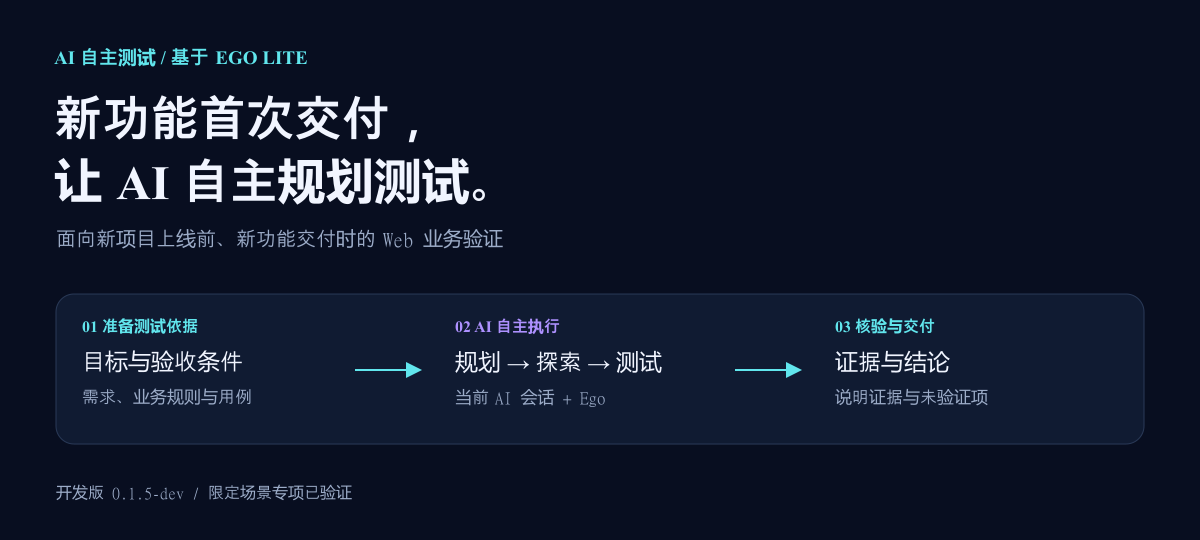
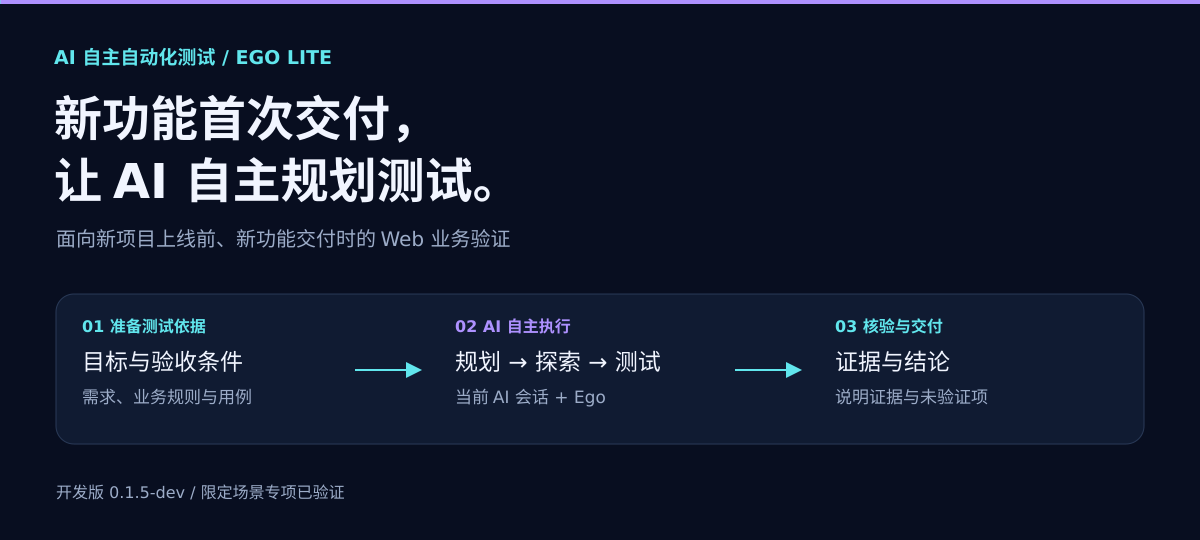
chore(v0.1.5): rename project and Skill to ai-autonomous-testing-ego-lite

diff --git a/README.en.md b/README.en.md
@@ -1,4 +1,4 @@
-<p align="center"><img src="docs/images/hero.png" alt="Ego Lite Test Skill for new web projects and first feature deliveries. AI plans tests against business rules." width="100%"></p>
+<p align="center"><img src="docs/images/hero.png" alt="AI Autonomous Testing with Ego Lite for new web projects and first feature deliveries. AI plans tests against business rules." width="100%"></p>
 
 <h1 align="center">AI-led Testing Skill Built on Ego Lite</h1>
 
@@ -10,9 +10,13 @@ An existing automated test suite is not required. Supply prepared cases, or prov
 
 First launch is a target use case, not a promise to infer missing rules or guarantee release readiness. Missing requirements need clarification, and insufficient evidence must remain uncertain. Existing-feature regression is also supported.
 
+## Name and invocation (0.1.5)
+
+The repository/package/Skill identifier is **ai-autonomous-testing-ego-lite**. Codex displays **AI 自主自动化测试 · Ego Lite**; invoke `$ai-autonomous-testing-ego-lite`. The Chinese README heading is unchanged. See the [rename and upgrade guide](docs/rename-upgrade.md) before updating the remote or migrating an existing installation; do not leave duplicate old/new discoverable Skills.
+
 ## Project status
 
-This Skill is under active development. Current source is **v0.1.5-dev, with scoped behavioral acceptance completed and no formal release yet**; the latest formal release is [v0.1.4](https://github.com/99Like-wjj/ego-lite-test-skill/releases/tag/v0.1.4). Feedback is welcome. Review AI conclusions against business rules and evidence, and do not use them as the sole basis for launch decisions. See [version history](docs/version-history.en.md), the [validation record](docs/testing.en.md) and [changelog](CHANGELOG.md).
+This Skill is under active development. Current source is **v0.1.5-dev, with scoped behavioral acceptance completed and no formal release yet**; the latest formal release is [v0.1.4](https://github.com/99Like-wjj/ai-autonomous-testing-ego-lite/releases/tag/v0.1.4). Feedback is welcome. Review AI conclusions against business rules and evidence, and do not use them as the sole basis for launch decisions. See [version history](docs/version-history.en.md), the [validation record](docs/testing.en.md) and [changelog](CHANGELOG.md).
 
 Maintained source uses strict TypeScript; installation packages contain compiled JavaScript and require no TypeScript compiler or development dependencies. Case concurrency is configurable and defaults to serial execution. The AI decides which cases are independent and uses native host subagents. Space association and deviation records are not a hard permission sandbox or a guarantee of account or backend-data isolation.
 
@@ -21,7 +25,7 @@ Maintained source uses strict TypeScript; installation packages contain compiled
 
 The AI infers prerequisites from each goal, checks existing material and safely available facts within authorization, and asks about material gaps. It explains affected goals and how to supply what is missing, pauses dependent actions, and may continue independent authorized work. Supplied resources require verification before resuming, including new dependencies discovered during execution.
 
-Acceptance ambiguity, resource availability and permission to act stay separate. Existing tools retain observations, questions and history; no fixed resource checklist or business workflow is added. See the [resource guide (Chinese)](skills/ego-lite-test/references/resource-readiness.md) and [local acceptance steps (Chinese)](docs/v0.1.5-local-acceptance.md). Guidance and engineering checks do not replace behavioral acceptance.
+Acceptance ambiguity, resource availability and permission to act stay separate. Existing tools retain observations, questions and history; no fixed resource checklist or business workflow is added. See the [resource guide (Chinese)](skills/ai-autonomous-testing-ego-lite/references/resource-readiness.md) and [local acceptance steps (Chinese)](docs/v0.1.5-local-acceptance.md). Guidance and engineering checks do not replace behavioral acceptance.
 
 ![Version history separates released capabilities from v0.1.5 development; illustration only.](docs/images/version-history.png)
 
@@ -33,13 +37,13 @@ Unless the user explicitly requests another format, completed test execution del
 
 Build a complete standalone directory from the source repository with `npm run build:skill -- --output-dir ABS_NEW_EXTERNAL_SKILL_DIR`. The package contains the Skill, guides, scripts, schemas, synthetic examples and `runtime-manifest.json`. Copying only the source Skill instructions is incomplete. Before updating an existing installation, compare known source files and report unknown edits instead of overwriting them, creating duplicate installations or adding old-version backups.
 
-Use the absolute root of the actually loaded SKILL.md, then run `node ABS_TOOL_ROOT/scripts/ego.mjs tool-info --expect-version 0.1.5-dev --expect-revision resource-clarification-3`. Check paths, formatVersions and installationIntegrity. Every CLI command verifies installed files. Source development runs npm ci and npm run build from the confirmed repository, then uses its explicit .build/runtime tool root. Fingerprints check consistency, not publisher identity. Validate this development package separately before deciding whether to replace an existing installation; no new resource JSON format is introduced.
+Use the absolute root of the actually loaded SKILL.md, then run `node ABS_TOOL_ROOT/scripts/ego.mjs tool-info --expect-version 0.1.5-dev --expect-revision branding-rename-1`. Check paths, formatVersions and installationIntegrity. Every CLI command verifies installed files. Source development runs npm ci and npm run build from the confirmed repository, then uses its explicit .build/runtime tool root. Fingerprints check consistency, not publisher identity. Validate this development package separately before deciding whether to replace an existing installation; no new resource JSON format is introduced.
 
 `report` reads back all three outputs. `verify-report --run-dir ABS_RUN --report-dir ABS_REPORT_DIR` compares the files with current records, retained evidence and context sources. Receipts include paths, sizes, hashes and `browserOpen: not_checked`; actual browser opening is separate. Report access restrictions honestly without routing around them.
 
 To retain an existing report, prepare a new external directory and pass `report --output-dir ABS_EXISTING_NEW_DIR`. Post-execution assembly also passes `--context ABS_CONTEXT_JSON`, defined by [the context schema](schemas/report-context.schema.json). It records limitations, existing source files and hashes, supplemental case IDs and AI-supplied reviews for every goal. Original claims remain separate; no pre-execution freeze, screenshot, timestamp or execution step is invented. No business actions run to fill a report.
 
-This development version uses tool revision `resource-clarification-3`. Cases/results/evidence remain v3; new manifests/reports are v4, execution/configuration/worker packets v1. Existing v3 runs remain usable without in-place migration; v2 remains unsupported. The installation requires Node.js >=22, not a TS compiler.
+This development version uses tool revision `branding-rename-1`. Cases/results/evidence remain v3; new manifests/reports are v4, execution/configuration/worker packets v1. Existing v3 runs remain usable without in-place migration; v2 remains unsupported. The installation requires Node.js >=22, not a TS compiler.
 
 ## Cases and judgments
 
@@ -80,7 +84,7 @@ node .\.build\runtime\scripts\ego.mjs validate-cases --cases $Cases
 node .\.build\runtime\scripts\ego.mjs start --project-dir $Project --cases $Cases --output-dir $Run
 ```
 
-`start` creates local files only; it does not run a browser or business action. See the [Skill workflow](skills/ego-lite-test/SKILL.md) and its [local toolbox guide](skills/ego-lite-test/references/local-toolbox.en.md).
+`start` creates local files only; it does not run a browser or business action. See the [Skill workflow](skills/ai-autonomous-testing-ego-lite/SKILL.md) and its [local toolbox guide](skills/ai-autonomous-testing-ego-lite/references/local-toolbox.en.md).
 
 ### Register evidence and record outcomes
 
@@ -154,7 +158,7 @@ Evidence registration does not redact data. Screenshots, logs, URLs, and descrip
 
 ## Further reading
 
-- [Skill workflow](skills/ego-lite-test/SKILL.md) and [local toolbox calling guide](skills/ego-lite-test/references/local-toolbox.en.md)
+- [Skill workflow](skills/ai-autonomous-testing-ego-lite/SKILL.md) and [local toolbox calling guide](skills/ai-autonomous-testing-ego-lite/references/local-toolbox.en.md)
 - [Architecture](docs/architecture.en.md), [Asset formats and commands](docs/asset-formats.en.md)
 - [v0.1.4 requirements and decision history (Chinese)](docs/requirements.md): configurable concurrency and Space associations
 - [Synthetic cases](examples/cases.example.json), [evidence request](examples/evidence-request.example.json), [result request](examples/record-request.example.json)
@@ -162,7 +166,7 @@ Evidence registration does not redact data. Screenshots, logs, URLs, and descrip
 
 ## Feedback and contact
 
-Report bugs or suggest improvements through [GitHub Issues](https://github.com/99Like-wjj/ego-lite-test-skill/issues) or the contacts below. Include the version, reproduction steps, and redacted errors or screenshots. Do not submit passwords, tokens, keys, or confidential company information.
+Report bugs or suggest improvements through [GitHub Issues](https://github.com/99Like-wjj/ai-autonomous-testing-ego-lite/issues) or the contacts below. Include the version, reproduction steps, and redacted errors or screenshots. Do not submit passwords, tokens, keys, or confidential company information.
 
 - Author: [99Like-wjj](https://github.com/99Like-wjj)
 - Email: [wjj990517@gmail.com](mailto:wjj990517@gmail.com)
@@ -178,4 +182,4 @@ Original code and documentation in this repository are licensed under the [MIT L
 
 ## Configurable concurrency
 
-The default is **1 (serial)**. Without a user request for concurrency or an explicit setting, execute cases one at a time. Set `start --max-parallel-cases N` or project execution-config.json to opt in; N is a positive safe integer with no fixed 2/4/8 product ceiling. The AI chooses tool calls, batches and worker use within that limit; it need not fill all slots. Host limits are recorded only when explicitly available, otherwise unknown. No automatic host probing or global configuration changes occur. Workers seal local packets; the coordinator reviews and imports them. See the [parallel guide](skills/ego-lite-test/references/parallel-testing.md). npm test builds and tests emitted JS; npm run check:public checks publishable source assets.
+The default is **1 (serial)**. Without a user request for concurrency or an explicit setting, execute cases one at a time. Set `start --max-parallel-cases N` or project execution-config.json to opt in; N is a positive safe integer with no fixed 2/4/8 product ceiling. The AI chooses tool calls, batches and worker use within that limit; it need not fill all slots. Host limits are recorded only when explicitly available, otherwise unknown. No automatic host probing or global configuration changes occur. Workers seal local packets; the coordinator reviews and imports them. See the [parallel guide](skills/ai-autonomous-testing-ego-lite/references/parallel-testing.md). npm test builds and tests emitted JS; npm run check:public checks publishable source assets.

diff --git a/docs/rename-upgrade.md b/docs/rename-upgrade.md
@@ -1,0 +1,41 @@
+# v0.1.5 名称变更与升级 / Naming and upgrade
+
+此变更属于 **0.1.5-dev / branding-rename-1**，不代表正式发布或新增业务验收。资源澄清能力沿用 resource-clarification-3；数据格式、Ego 命令/API 与官方 ego-browser Skill 不变。
+
+## 名称对应
+
+| 位置 | 新值 |
+| --- | --- |
+| GitHub 仓库、package name | ai-autonomous-testing-ego-lite |
+| Skill frontmatter name、源码目录、安装目录 | ai-autonomous-testing-ego-lite |
+| 显式调用 | `$ai-autonomous-testing-ego-lite` |
+| Codex 展示名 | AI 自主自动化测试 · Ego Lite |
+| README 中文标题 | 基于 Ego Lite 的 AI 自主测试 Skill（保持不变） |
+
+旧仓库名为 ego-lite-test-skill，旧 Skill 名为 ego-lite-test。新仓库为 [ai-autonomous-testing-ego-lite](https://github.com/99Like-wjj/ai-autonomous-testing-ego-lite)。原仓库更名，不另建项目；不要重新占用旧仓库名，以免影响旧链接重定向。历史 Tag、Release、已发布安装包和已生成报告不改写。
+
+## 现有源码目录
+
+保留现有本地源码目录及工作分支，无需重新 clone 或重命名本地文件夹。在确认的原仓库中更新 remote，然后 fetch 并检查差异；有未提交或未推送工作时先协调，不 reset、强推、覆盖或自动 stash。
+
+```sh
+git remote set-url origin https://github.com/99Like-wjj/ai-autonomous-testing-ego-lite.git
+git fetch origin
+git status --short --branch
+```
+
+只在工作区安全且核对当前分支后快进到对应远端分支；不要把这一步当作合并 main 或发布授权。
+
+## 安装与发现
+
+1. 从当前源码构建完整的仓库外目录包，目录名使用 ai-autonomous-testing-ego-lite。不能只复制源码 Skill 说明子目录。包必须包含 agents/openai.yaml、references、scripts、schemas、运行依赖资源与 runtime-manifest.json。
+2. 在独立包运行 `node ABS_PACKAGE/scripts/ego.mjs tool-info --expect-version 0.1.5-dev --expect-revision branding-rename-1`，确认 name 为 ai-autonomous-testing-ego-lite、installationIntegrity 为 verified，并检查实际路径。
+3. 更新用户安装须单独获得授权。先检查实际使用的 Skill 搜索路径（包括项目级和用户级）以及旧 ego-lite-test 与新目录是否存在，比较已知文件哈希，保护不明修改、报告和证据。新目录已存在时先比对，不直接覆盖。
+4. 迁移已确认的旧安装到同一 Skill 根下的新目录，并更新为完整新包；校验新入口后再完成旧入口退役。不要长期留下两个可被发现的同功能入口，不自动创建旧版备份或删除不明内容。无法安全完成时保留现状并报告，不静默加载旧版。
+5. 在新的 Codex 会话检查展示名及 `$ai-autonomous-testing-ego-lite`，再从实际加载的 SKILL.md 目录运行 tool-info。旧调用名不作为兼容别名保留；官方 `$ego-browser` 仍按既有方式使用。
+
+旧运行及报告仍保留原数据格式和历史 tool identity，不全局替换其中的名字、路径、hash 或 revision。package 中 egoLiteTest 元数据键以及内部 CLI 文件名 scripts/ego.mjs 保留，避免把品牌更名扩大为无关格式迁移。
+
+## English summary
+
+The repository, package and Skill identifier are now **ai-autonomous-testing-ego-lite**. Invoke `$ai-autonomous-testing-ego-lite`; Codex displays **AI 自主自动化测试 · Ego Lite**. The Chinese README heading stays unchanged. Update the remote in the existing checkout; do not clone a second local version or reset local work. Build and verify the full standalone package, including agents/openai.yaml. User-level installation migration requires separate authorization and checks for unknown changes and duplicate discoverable entries. Historical releases, reports, hashes, JSON formats and the official Ego API/Skill remain unchanged. This development rename is not a release or a new live-business acceptance result.

diff --git a/docs/architecture.en.md b/docs/architecture.en.md
@@ -2,7 +2,7 @@
 
 ## Current v0.1.5-dev architecture
 
-The AI infers resource needs from goals and facts, using guidance loaded from the entrypoint and existing evidence/result/packet/report tools. Acceptance ambiguity, resource availability and authorization stay separate. No new resource state machine, scheduler or fixed business route is added; supplied resources require verification and auxiliary notes are not automatically report-verified. See the [resource guide (Chinese)](../skills/ego-lite-test/references/resource-readiness.md).
+The AI infers resource needs from goals and facts, using guidance loaded from the entrypoint and existing evidence/result/packet/report tools. Acceptance ambiguity, resource availability and authorization stay separate. No new resource state machine, scheduler or fixed business route is added; supplied resources require verification and auxiliary notes are not automatically report-verified. See the [resource guide (Chinese)](../skills/ai-autonomous-testing-ego-lite/references/resource-readiness.md).
 
 ![Configurable concurrency, independent assignments and reviewed aggregation.](images/parallel.svg)
 
@@ -12,7 +12,7 @@ All maintained programs use strict TypeScript. Node `.mts` compiles to ESM `.mjs
 
 The AI chooses tool calls, batches and whether to execute directly or use native host workers. Default concurrency is 1 (serial) without a user concurrency request or explicit configuration; a separate worker per case is optional. `src/execution/` handles configuration, declared resource reservations, ownership receipts, immutable worker packets and explicitly reviewed imports. It does not schedule business actions, run model services or retry browser writes. Configured concurrency (no fixed product cap or requirement to fill all slots) and known host capacity are distinct; unknown host limits remain unknown. Space deviations and authorized recovery are recorded, without claiming a sandbox or account isolation.
 
-Workers write only their assignment directory. The coordinator reviews original goals and evidence before importing into shared records. Persisted requests/checkpoints support identical data-operation replay; a confirmed unapplied conflict requires an explicit new transaction. Unknown/in-flight workers keep their slot. New manifests/reports use v4; execution/configuration/packets use v1 and business cases/results/evidence remain v3. Existing v3 runs retain their format. Reports show per-goal assessments separately from execution state and distinguish reservation peaks from sourced execution intervals. See the [parallel protocol](../skills/ego-lite-test/references/parallel-testing.md).
+Workers write only their assignment directory. The coordinator reviews original goals and evidence before importing into shared records. Persisted requests/checkpoints support identical data-operation replay; a confirmed unapplied conflict requires an explicit new transaction. Unknown/in-flight workers keep their slot. New manifests/reports use v4; execution/configuration/packets use v1 and business cases/results/evidence remain v3. Existing v3 runs retain their format. Reports show per-goal assessments separately from execution state and distinguish reservation peaks from sourced execution intervals. See the [parallel protocol](../skills/ai-autonomous-testing-ego-lite/references/parallel-testing.md).
 
 ## Historical v0.1.3 architecture
 

diff --git a/skills/ai-autonomous-testing-ego-lite/SKILL.md b/skills/ai-autonomous-testing-ego-lite/SKILL.md
@@ -1,12 +1,12 @@
 ---
-name: ego-lite-test
-description: 使用已安装的 Ego Browser 与当前 AI 会话，接收外部用例或按需求生成带业务步骤的标准用例，执行证据驱动的黑盒 Web 测试，区分产品异常、执行失败和证据不足。适用于新需求/新功能自动化测试、已有用例核验、角色权限与业务流程测试；不是固定流程自动化器或 Agent 能力评测框架。
+name: ai-autonomous-testing-ego-lite
+description: AI 自主 Web 自动化测试：由当前 AI 会话自主分析、规划与验证，通过已安装的 Ego Lite / Ego Browser 执行，接收外部用例或按需求生成带业务步骤的标准用例，执行证据驱动的黑盒 Web 测试，区分产品异常、执行失败和证据不足。适用于新需求/新功能自动化测试、已有用例核验、角色权限与业务流程测试；不是固定流程自动化器或 Agent 能力评测框架。
 metadata:
   version: "0.1.5-dev"
-  tool-revision: "resource-clarification-3"
+  tool-revision: "branding-rename-1"
 ---
 
-# Ego Lite Test
+# AI 自主自动化测试 · Ego Lite
 
 由 AI 理解需求、选择测试、执行观察并审阅证据。Ego 负责浏览器原语；本 Skill 不接管其原生 API，不内置业务代码、固定 DAG、模型 API 服务或能力验收数据集。本地工具只整理记录、校验文件和渲染报告，不代替推理或执行测试。
 
@@ -22,7 +22,7 @@ metadata:
 
 完整安装包包含入口、references、scripts、schemas 和格式指南。**除非用户明确指定其他格式，执行测试后的默认交付必须包含可独立打开的 HTML、结构化 JSON 和 Markdown。** 聊天摘要不能替代文件交付。工具暂不可用时仍可保存事实，但须明确报告交付阻塞，不能静默退回 Markdown 并宣称完成。
 
-开始记录前读 [本地工具箱调用指南](references/local-toolbox.md)：以本次实际加载的安装／构建包 `SKILL.md` 所在绝对目录为工具根，运行 `scripts/ego.mjs tool-info`，核对路径、`0.1.5-dev`、`resource-clarification-3`、`formatVersions` 与安装文件校验结果。源码开发先在明确的唯一仓库构建，使用其 `.build/runtime` 或本次指定的独立编译包；不要将源码 Skill 子目录当作安装根，不向上猜目录、选择旧安装或覆盖用户安装。先确认报告资源可用；这不规定业务执行路线。
+开始记录前读 [本地工具箱调用指南](references/local-toolbox.md)：以本次实际加载的安装／构建包 `SKILL.md` 所在绝对目录为工具根，运行 `scripts/ego.mjs tool-info`，核对路径、`0.1.5-dev`、`branding-rename-1`、`formatVersions` 与安装文件校验结果。源码开发先在明确的唯一仓库构建，使用其 `.build/runtime` 或本次指定的独立编译包；不要将源码 Skill 子目录当作安装根，不向上猜目录、选择旧安装或覆盖用户安装。先确认报告资源可用；这不规定业务执行路线。
 
 ## 两种用例来源
 

diff --git a/CHANGELOG.md b/CHANGELOG.md
@@ -2,13 +2,14 @@
 
 ## 0.1.5-dev — 2026-10-25 · 开发中，限定场景专项验收完成
 
+- 更名修订 branding-rename-1：仓库、package 与 Skill 标识统一为 ai-autonomous-testing-ego-lite，新增随完整包校验的 Codex 展示/调用元数据，更新当前链接与迁移说明。README 中文标题“基于 Ego Lite 的 AI 自主测试 Skill”不变；历史版本、报告与数据格式不动，用户安装不自动修改。
 - 修订 resource-clarification-3：同一资源事实复用可追溯依据，派生摘要回读该来源并区分历史与当前；已提供但未核验不再写成未提供。复用现有证据、结果和报告，不增加资源状态机或业务判断代码。
 - 修订 resource-clarification-2：明确记录缺口不等于实际发问、部分答复只解决所覆盖条件，以及受阻原目标交付前的问答核对。资源指南优先讲行为，字段映射后置；保持 AI 自主判断。
 - 补强资源充分性与主动澄清：从目标推导必要条件，授权内先核验，主动询问实质缺口，只暂停依赖动作，补充后核实再恢复，执行中新依赖同样处理。
 - 分开处理验收歧义、资源可用性和操作授权。clarificationQuestions 既有含义与 pass/fail 限制保留；资源恢复符合原条件时不因此重新冻结，改变冻结语义仍须修订并保留历史。
 - 复用现有结果、证据、worker 包和报告；不新增资源 JSON、固定决策树、自动重试或独立模型服务。新增指南明确加入运行包与安装清单，辅助资源笔记不冒称已被 verify-report 校验。
 - 新增面向使用者的双语版本演变页、总览图、README 入口及本地验收步骤；区分正式/预发布/开发中和实际发布时间，历史开发记录保留。
-- 升级影响：软件 0.1.5-dev，toolRevision 为 resource-clarification-3；cases/results/evidence v3、manifest/report v4、execution/configuration/workerPacket v1、executionRead v2 保持。需完整包以包含新指南；不迁移、删除或覆盖历史。
+- 升级影响：软件 0.1.5-dev，toolRevision 为 branding-rename-1（资源澄清行为沿用 resource-clarification-3）；cases/results/evidence v3、manifest/report v4、execution/configuration/workerPacket v1、executionRead v2 保持。需完整包以包含新指南；不迁移、删除或覆盖历史。
 - 本版工程验证与限制见 [v0.1.5 本地验证记录](docs/v0.1.5-validation.md)。真实对话与业务验收分别记录，不由类型或合成测试代替。旧开发包已按用户授权更新至用户级安装；本次候选安装及逐次验证以回执为准，未合并 main 或发布。
 
 English: Goal-specific resource clarification, dependency-scoped pauses and verified resumption are guided by the AI using existing records and report tools. Added bilingual version history and acceptance instructions. Development build, unchanged JSON contracts; scoped behavioral acceptance is recorded; broader reliability remains unverified.

diff --git a/docs/version-history.md b/docs/version-history.md
@@ -25,7 +25,7 @@
 
 ### v0.1.4 · 可配置并发与协调复核
 
-**正式发布：2026-10-24 19:56。** [Release、安装包与校验值](https://github.com/99Like-wjj/ego-lite-test-skill/releases/tag/v0.1.4)
+**正式发布：2026-10-24 19:56。** [Release、安装包与校验值](https://github.com/99Like-wjj/ai-autonomous-testing-ego-lite/releases/tag/v0.1.4)
 
 - **解决的问题：** 多用例测试需要在用户设置的并发范围内分工，同时保留各用例证据、共享资源限制与复核责任。
 - **主要变化：** 默认串行，用户可配置并发；原生 worker 独立封包，由协调者按原目标复核后导入。增加执行台账、Space 关联/偏差、逐目标四态和轻量查询。维护源码迁为 TypeScript，用户使用编译后的 JavaScript。
@@ -35,7 +35,7 @@
 
 ### v0.1.3 · 图文证据与完整交付
 
-**正式发布：2026-10-23 00:05。** [Release、安装包与校验值](https://github.com/99Like-wjj/ego-lite-test-skill/releases/tag/v0.1.3)
+**正式发布：2026-10-23 00:05。** [Release、安装包与校验值](https://github.com/99Like-wjj/ai-autonomous-testing-ego-lite/releases/tag/v0.1.3)
 
 - **解决的问题：** 聊天摘要和零散文件不便复核，单独复制说明文件也可能漏掉实际工具。
 - **主要变化：** 增加证据登记、revision 化结果、历史尝试、进度及完整性检查。默认交付离线 HTML、JSON、Markdown；关键 UI 结果/缺陷要求真实截图。完整安装包附工具、schema 和文件清单；支持报告读回及明确标识的事后整理。
@@ -45,7 +45,7 @@
 
 ### v0.1.2 · 业务意图步骤与验收澄清
 
-**实验性预发布：2026-10-22 17:11。** [预发布说明、完整工具包与校验值](https://github.com/99Like-wjj/ego-lite-test-skill/releases/tag/v0.1.2)
+**实验性预发布：2026-10-22 17:11。** [预发布说明、完整工具包与校验值](https://github.com/99Like-wjj/ai-autonomous-testing-ego-lite/releases/tag/v0.1.2)
 
 - **解决的问题：** 不完整需求不应被编造成按钮级操作和无依据的逐步预期。
 - **主要变化：** 步骤表达业务意图与必要输入；步骤检查点可选，整体 expected 和 basis 保留。clarificationQuestions 表示验收待澄清，未解决时不判 pass/fail。

diff --git a/docs/version-history.en.md b/docs/version-history.en.md
@@ -20,7 +20,7 @@ Times below are GitHub published_at converted to Asia/Shanghai. Development date
 
 ### v0.1.4 · Configurable concurrency
 
-**Formal release, 2026-10-24 19:56.** [Release, package and checksums](https://github.com/99Like-wjj/ego-lite-test-skill/releases/tag/v0.1.4)
+**Formal release, 2026-10-24 19:56.** [Release, package and checksums](https://github.com/99Like-wjj/ai-autonomous-testing-ego-lite/releases/tag/v0.1.4)
 
 Independent cases may run within explicit user limits; the default is serial. Native workers seal evidence for coordinator review. Execution records track Spaces, deviations, unfinished work and explicit per-goal assessments. Maintained TypeScript is distributed as compiled JavaScript.
 
@@ -28,7 +28,7 @@ New manifests/reports use v4; business records remain v3. Execution/configuratio
 
 ### v0.1.3 · Evidence and complete delivery
 
-**Formal release, 2026-10-23 00:05.** [Release, package and checksums](https://github.com/99Like-wjj/ego-lite-test-skill/releases/tag/v0.1.3)
+**Formal release, 2026-10-23 00:05.** [Release, package and checksums](https://github.com/99Like-wjj/ai-autonomous-testing-ego-lite/releases/tag/v0.1.3)
 
 Evidence registration, revisioned results, retained attempts, progress and integrity checks make conclusions reviewable. Default delivery includes offline HTML, JSON and Markdown, with real screenshots required for key UI conclusions. Complete packages and report readback address missing-tool and delivery gaps; retrospective assembly preserves original records.
 
@@ -36,7 +36,7 @@ Assets moved to v3. Rebuild v2 cases from original sources into a new run; do no
 
 ### v0.1.2 · Business-intent steps
 
-**Experimental prerelease, 2026-10-22 17:11.** [Prerelease, package and checksums](https://github.com/99Like-wjj/ego-lite-test-skill/releases/tag/v0.1.2)
+**Experimental prerelease, 2026-10-22 17:11.** [Prerelease, package and checksums](https://github.com/99Like-wjj/ai-autonomous-testing-ego-lite/releases/tag/v0.1.2)
 
 Business-intent actions and optional step checkpoints avoid inventing UI details. Overall expectations and sources remain required. Acceptance questions prevent pass/fail until resolved. External and AI-authored cases share the format and can be drafted without execution.
 

diff --git a/examples/project.example/usage.md b/examples/project.example/usage.md
@@ -4,7 +4,7 @@
 
 可向能操作本机 Ego 的 AI 会话提出：
 
-> 使用 ego-lite-test 测试我指定的测试环境。先读取我提供的项目说明，接收外部 schemaVersion 3 用例，或从需求生成同格式的用例，包含关键前提、stepOrder、steps（id/action，expected 可选）及最终预期。列出明确要求、需要确认的解释和探索假设。先校验并冻结，再执行。保留目标、关键输入、角色、初始条件与规定路径；缺少权限时停止相关动作。依据实际观察判断，不把工具调用成功当成业务通过。按证据需要自行决定取证时机；关键结果优先通过 Ego 官方能力取得截图，再登记保存。报告全部目标的状态、实际观察、依据、证据、首次失败、补测和未覆盖项；区分已观察、已保存、已交付。清理测试数据前确认报告和必要证据已留存。
+> 使用 $ai-autonomous-testing-ego-lite 测试我指定的测试环境。先读取我提供的项目说明，接收外部 schemaVersion 3 用例，或从需求生成同格式的用例，包含关键前提、stepOrder、steps（id/action，expected 可选）及最终预期。列出明确要求、需要确认的解释和探索假设。先校验并冻结，再执行。保留目标、关键输入、角色、初始条件与规定路径；缺少权限时停止相关动作。依据实际观察判断，不把工具调用成功当成业务通过。按证据需要自行决定取证时机；关键结果优先通过 Ego 官方能力取得截图，再登记保存。报告全部目标的状态、实际观察、依据、证据、首次失败、补测和未覆盖项；区分已观察、已保存、已交付。清理测试数据前确认报告和必要证据已留存。
 
 执行后的默认交付为独立离线 HTML、JSON 和 Markdown，并提供实际绝对路径。关键 UI 结果及缺陷须保留真实截图，DOM / 摘要作补充；不要求每步截图。缺图或浏览器无法打开时明确报告缺口与结论影响，不静默降级或补造事实。先按实际加载的 Skill 根目录确认工具版本与安装完整性。
 

diff --git a/docs/asset-formats.md b/docs/asset-formats.md
@@ -7,7 +7,7 @@
 用例、结果、证据继续使用 v3；新运行 manifest 与报告使用 v4；执行台账、配置、worker 交付包使用 v1；查询视图使用 v2。既有 v3 运行保留原格式且可继续核验；下方 v0.1.3 段落是基础记录语义的历史背景，不表示新运行仍是 v3。并发字段与命令详见本文后部的 v0.1.4 章节。
 
 
-当前 `0.1.5-dev`（沿用 v0.1.4 契约）：cases/baseline/results/evidence 仍为 v3；新 manifest/report 为 v4；配置、执行台账、worker 交付包为 v1。`schemas/manifest.schema.json`、`report.schema.json` 显式区分 v3/v4。以下 v3 字段语义继续适用，不代表所有新运行仍为 v3。并行调用见工具根的 `references/parallel-testing.md`，源码位于 `skills/ego-lite-test/references/parallel-testing.md`。
+当前 `0.1.5-dev`（沿用 v0.1.4 契约）：cases/baseline/results/evidence 仍为 v3；新 manifest/report 为 v4；配置、执行台账、worker 交付包为 v1。`schemas/manifest.schema.json`、`report.schema.json` 显式区分 v3/v4。以下 v3 字段语义继续适用，不代表所有新运行仍为 v3。并行调用见工具根的 `references/parallel-testing.md`，源码位于 `skills/ai-autonomous-testing-ego-lite/references/parallel-testing.md`。
 
 `execution read` 默认返回 `schemas/execution-read.schema.json` 定义的摘要视图（`viewVersion:2`），支持单分派视图及显式 `--view full` 原完整输出；内部 `readExecutionView` 完整读取接口保持不变。摘要不写入 run，也不改变上述存档格式。摘要／单例默认只校验元数据，integrity 对象明示结果与证据未复核；加 `--integrity full` 可完整检查后仍返回紧凑内容，完整视图始终严格检查。轻量查询发现恢复标记只提示，不自动恢复。新报告使用“尚无结果／尝试记录”“已有尝试记录，尚无最终结论”，不从入账情况推断实际是否执行；下文 v0.1.3 展示说明保留其历史语义。
 
